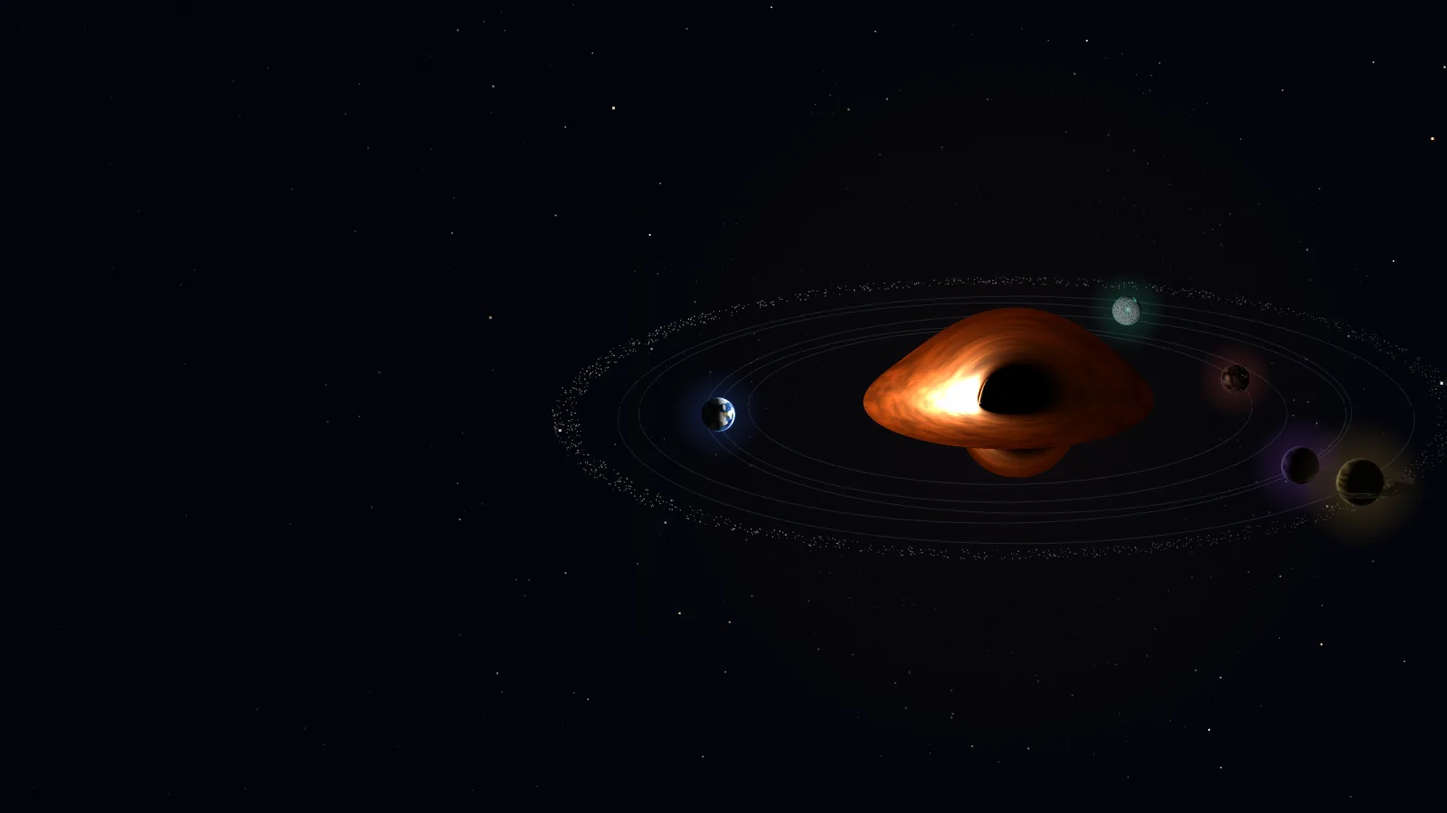
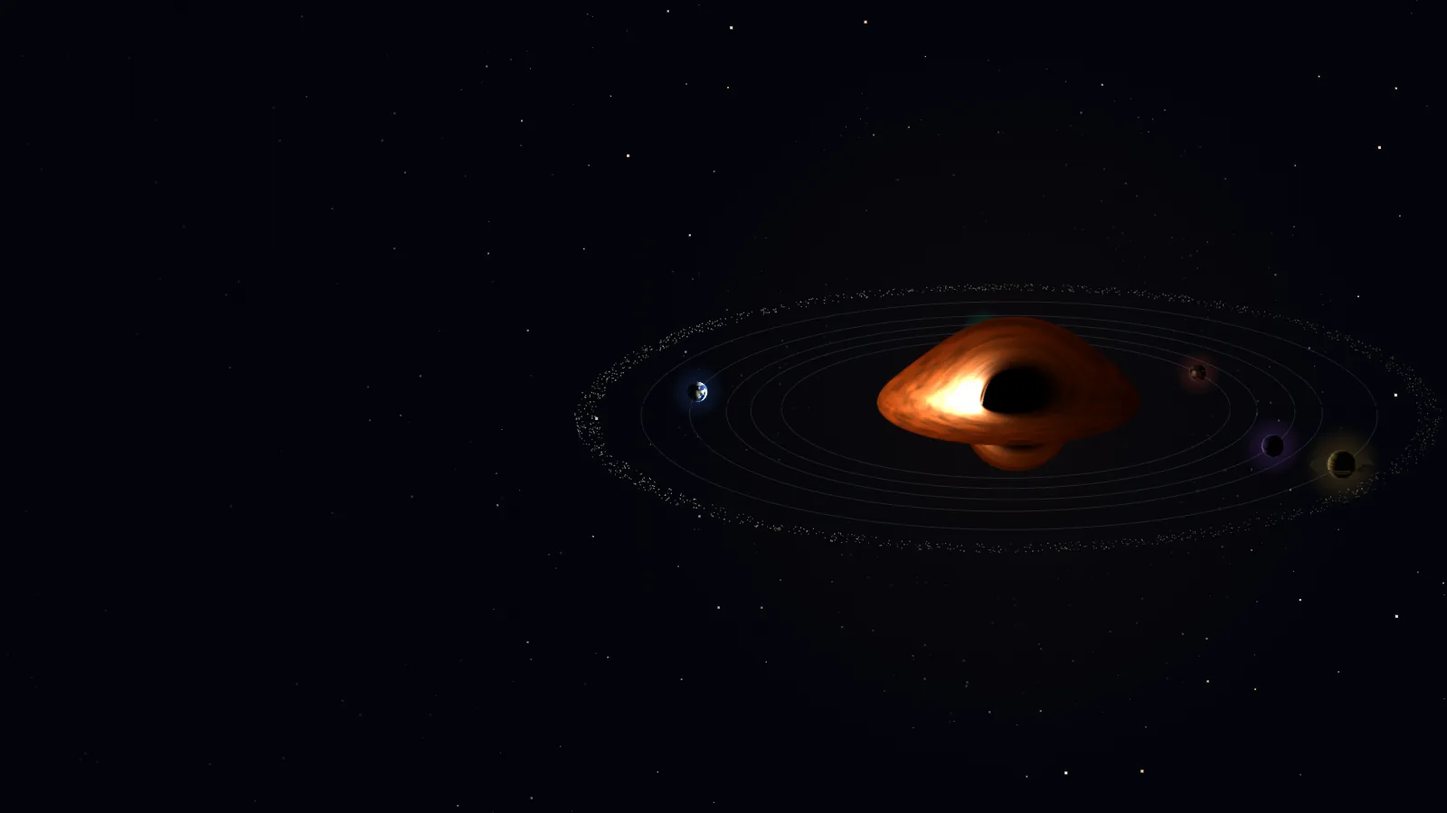
Space the orbits so planets never touch; compile the planet shader once
Neighbouring orbits were 0.5 to 1.1 M apart while the planets are 3 to
5 M across, so passing planets overlapped. The orbits are now nearly
circular (e <= 0.014), the planets a third smaller, and the ringed
giant outermost, with the belt at 50 to 53 M; three hours of screen
time give no contact between any pair. The sky's planets and the
landing view now share one planet program, so it compiles once; a
planet clicked before it is ready pulses its label until the flight
starts. Hero text waits at most 0.7 s for its fonts, which are fetched
first.

diff --git a/src/assets/js/sky.js b/src/assets/js/sky.js
@@ -29,7 +29,7 @@
     const la = p.site[0] * Math.PI / 180, lo = p.site[1] * Math.PI / 180;
     p.siteN = [Math.cos(la) * Math.cos(lo), Math.cos(la) * Math.sin(lo), Math.sin(la)];
   });
-  const BELT = (() => { let s = 7; const r = () => (s = (s * 16807) % 2147483647) / 2147483647; return [...Array(1500)].map(() => ({ r: 47.5 + r() * 3, ph: r() * 6.2832, z: (r() - .5) * .5, b: .35 + .65 * r() })); })();
+  const BELT = (() => { let s = 7; const r = () => (s = (s * 16807) % 2147483647) / 2147483647; return [...Array(1500)].map(() => ({ r: 50 + r() * 3, ph: r() * 6.2832, z: (r() - .5) * .5, b: .35 + .65 * r() })); })();
 
   // Planet position at time tau: a precessing ellipse. The periapsis advances at Omega - kappa
   // (general relativity), the radial motion follows the epicyclic frequency kappa.
@@ -78,7 +78,7 @@
     IR = mob ? null : { l: ir.left - sr.left - 24, r: ir.right - sr.left + 24, t: ir.top - sr.top - 20, b: ir.bottom - sr.top + 20 };
     // Desktop: fit the outermost planet's orbit (apoapsis APO) in the space beside the intro text,
     // so no planet ever passes under the headline. The belt may run behind the text.
-    const APO = Math.max(...PL.map(p => p.a * (1 + p.e)));
+    const APO = Math.max(...PL.map(p => p.a * (1 + p.e)), 51);   // the outermost orbit, or the belt's middle
     let cx = w * .5, cy = h * .5, K;
     if (mob) { K = Math.min((w - 16) / (2 * (APO + 3)), h / (2 * 17)); cy = h * .42; } // every planet stays on a phone screen; the hole sits high enough to show on the first screen
     else {
@@ -313,13 +313,17 @@ void main(){ivec2 p=ivec2(gl_FragCoord.xy);vec4 c=texelFetch(uC,p,0),g=texelFetc
   })();
 
   // ---------- Planets: rendered on the GPU into an atlas, then drawn in 2D ----------
-  const atlas = document.createElement('canvas');
-  // The planet shader is compiled in the background once the first frame is on screen; until it is
-  // ready the planets are drawn as shaded discs.
-  let PG = null, PGH = null, pgT = 0, pgFade = 1;
-  let pgReady = false;
-  requestAnimationFrame(() => setTimeout(() => { PGH = window.PlanetGL ? window.PlanetGL.begin(atlas, { preserveDrawingBuffer: true }) : null; if (!PGH) pgReady = true; }, 0));
-  function pollPG() { if (PGH && PGH.ready()) { PG = PGH.finish(); PGH = null; pgReady = true; pgT = performance.now(); pgFade = 0; } if (PG && pgFade < 1) pgFade = Math.min(1, (performance.now() - pgT) / 600); }
+  // The planets are rendered by the landing view's planet program (world.js) and copied into this
+  // 2D atlas, which keeps them while a project is open. Until the program is compiled they are drawn
+  // as shaded discs, and the detailed ones fade in over them.
+  const atlas = document.createElement('canvas'), ax = atlas.getContext('2d');
+  let PG = null, pgT = 0, pgFade = 1, pend = -1;
+  function pollPG() {
+    const G = window.WORLD && window.WORLD.planetGL();
+    if (G && !PG) { pgT = performance.now(); pgFade = 0; }
+    PG = G || (PG && window.WORLD.open_ >= 0 ? PG : null);
+    if (PG && pgFade < 1) pgFade = Math.min(1, (performance.now() - pgT) / 600);
+  }
   let tile = 128;
   function frameOf(p3) {
     const r = Math.hypot(...p3), ex = p3.map(v => -v / r), ez = NR;
@@ -329,14 +333,17 @@ void main(){ivec2 p=ivec2(gl_FragCoord.xy);vec4 c=texelFetch(uC,p,0),g=texelFetc
   }
   const ext = p => p.kind === 'gas' ? 2.45 : 1.18;
   function renderAtlas(st, t) {
-    if (!PG) return;
+    if (!PG || window.WORLD.open_ >= 0) return;   // a project is open: its view owns the canvas
     const need = Math.min(QUAL[q].tile, Math.max(...PL.map(p => Math.ceil(2 * ext(p) * p.R * L.K * dpr))));
-    if (atlas.width !== need * PL.length || atlas.height !== need) { atlas.width = need * PL.length; atlas.height = need; }
+    const gc = PG.gl.canvas;
+    if (gc.width !== need * PL.length || gc.height !== need) { gc.width = need * PL.length; gc.height = need; }
+    if (atlas.width !== gc.width || atlas.height !== gc.height) { atlas.width = gc.width; atlas.height = gc.height; }
     tile = need; PG.clear();
     PL.forEach((p, i) => {
       const f = st[i].frame;
       PG.draw({ vp: [i * tile, 0, tile, tile], ortho: 1, ext: ext(p), rot: f.rot, L: f.L, col: p.rgb.map(v => v / 255), kind: KIND[p.kind], site: p.siteN, time: t, glow: 0, seed: i * 3.7 + 1, gain: st[i].gain });
     });
+    ax.clearRect(0, 0, atlas.width, atlas.height); ax.drawImage(gc, 0, 0);
   }
   const KIND = { rock: 0, ocean: 1, gas: 2, storm: 3, ice: 4 };
   function drawPlanet(ctx, i, p, X, Y, M) {
@@ -493,7 +500,8 @@ void main(){ivec2 p=ivec2(gl_FragCoord.xy);vec4 c=texelFetch(uC,p,0),g=texelFetc
   requestAnimationFrame(loop);
   window.SKY = {
     get quality() { return q; },
-    get planetsReady() { return pgReady || performance.now() > 6000; },
+    // A planet clicked before the landing view is ready: its label pulses until the flight starts.
+    pending(i) { if (pend === i) return; pend = i; [...labs.children].forEach((b, k) => b.classList.toggle('busy', k === i)); },
     // Stop (or restart) the sky while a project is open. The planet being flown to is drawn by the
     // landing view instead, so the sky draws one last frame without it.
     setActive(v, i) { hideI = v ? -1 : (i == null ? -1 : i); if (L && L.w >= 2) draw(); active = v; },

diff --git a/src/assets/js/world.js b/src/assets/js/world.js
@@ -8,13 +8,15 @@
   const el = document.getElementById('world'), wc = document.getElementById('wc'), wp = document.getElementById('wp');
   const arts = [...wp.querySelectorAll('article.cs')];
   const bBack = document.getElementById('w-back'), bPrev = document.getElementById('w-prev'), bNext = document.getElementById('w-next');
-  // The planet shader is compiled in the background once the page is up (see the end of this file);
-  // pg() finishes it, waiting for it only if a landing starts before it is ready.
+  // One planet program serves both the landing view and the sky's planets (sky.js renders them on
+  // this canvas while no project is open), so the costly shader is compiled once. It is handed to the
+  // driver after the first frame and compiled in the background; pg() returns it once it is ready.
   let PG = null, PGH = null, pgDone = false;
   function pg() {
-    if (!pgDone) { if (!PGH && window.PlanetGL) PGH = window.PlanetGL.begin(wc); PG = PGH ? PGH.finish() : null; pgDone = true; }
+    if (!pgDone && PGH && PGH.ready()) { PG = PGH.finish(); pgDone = true; }
     return PG;
   }
+  requestAnimationFrame(() => setTimeout(() => { PGH = window.PlanetGL ? window.PlanetGL.begin(wc, { preserveDrawingBuffer: true }) : null; if (!PGH) pgDone = true; }, 0));
   const KIND = { rock: 0, ocean: 1, gas: 2, storm: 3, ice: 4 };
   const hex = h => [1, 3, 5].map(i => parseInt(h.slice(i, i + 2), 16) / 255);
   const esc = s => String(s).replace(/[&<>"]/g, c => ({ '&': '&amp;', '<': '&lt;', '>': '&gt;', '"': '&quot;' })[c]);
@@ -146,20 +148,18 @@
     if (cur === i && st) return;
     // A planet clicked while its shader is still compiling: keep the sky running and start the flight
     // as soon as the shader is ready, instead of freezing the page while it compiles.
-    if (!pgDone && window.PlanetGL) {
-      if (!PGH) PGH = window.PlanetGL.begin(wc);
-      if (PGH && !PGH.ready()) {
-        clearTimeout(waitT); document.documentElement.classList.add('wait');
-        waitT = setTimeout(() => open(i, null, opts), 80); return;
-      }
+    if (!pg() && !pgDone) {
+      clearTimeout(waitT); document.documentElement.classList.add('wait');
+      if (window.SKY) window.SKY.pending(i);
+      waitT = setTimeout(() => open(i, null, opts), 50); return;
     }
     document.documentElement.classList.remove('wait');
+    if (window.SKY) window.SKY.pending(-1);
     const P = window.SKY ? window.SKY.planet(i) : null;
     from = from || P;
     if (!from || !from.rot) { // no sky position (no WebGL or not drawn yet): open without the flight
       from = Object.assign({ x: innerWidth * .62, y: innerHeight * .5, R: innerHeight * .1 }, P || {});
     }
-    pg();
     if (cur < 0) opener = document.activeElement;
     const switching = cur >= 0;
     cur = i; size(); fill(i);
@@ -209,22 +209,8 @@
   });
   addEventListener('resize', () => { if (st) size(); });
   wp.addEventListener('scroll', () => el.classList.toggle('sc', wp.scrollTop > 40), { passive: true });
-  // Compile the planet shader in the background once the sky's planets are ready (the two would
-  // otherwise compete for the driver), then draw one frame so the first landing does not stall.
   const idle = window.requestIdleCallback || (f => setTimeout(f, 300));
-  function warm() {
-    if (st || pgDone) return;
-    if (!PGH) {
-      if (!window.PlanetGL) { pgDone = true; return; }
-      if (window.SKY && !window.SKY.planetsReady) { setTimeout(warm, 100); return; }
-      PGH = window.PlanetGL.begin(wc); if (!PGH) { pgDone = true; return; }
-    }
-    if (!PGH.ready()) { setTimeout(warm, 100); return; }
-    if (!pg()) return;
-    size(); PG.clear(); PG.draw({ vp: [0, 0, wc.width, wc.height], ortho: 0, cam: [0, 0, 3], camM: [1, 0, 0, 0, 1, 0, 0, 0, 1], tanF: TANF, rot: [1, 0, 0, 0, 1, 0, 0, 0, 1], L: [0, 0, 1], col: [1, 1, 1], kind: 0, site: [0, 0, 1], time: 0, glow: 0, seed: 1, bg: 1 });
-  }
-  requestAnimationFrame(() => setTimeout(warm, 0));
   // Decode the first screenshot of each project while the page is idle, so showing a project does not stall.
   idle(() => arts.forEach(a => { const im = a.querySelector('.vp img:not([hidden])'); if (im && im.decode) { im.loading = 'eager'; im.decode().catch(() => {}); } }));
-  window.WORLD = { open, close: () => close(false), get open_() { return cur; } };
+  window.WORLD = { open, close: () => close(false), get open_() { return cur; }, planetGL: () => (cur < 0 ? pg() : null) };
 })();

diff --git a/src/assets/css/site.css b/src/assets/css/site.css
@@ -69,12 +69,13 @@ a{color:inherit}
 img.still{opacity:0}img.still.on{opacity:1}
 .shade{position:absolute;inset:0;pointer-events:none;background:linear-gradient(90deg,#03040af2 0%,#03040ad0 25%,#03040a00 46%)}
 [dir=rtl] .shade{background:linear-gradient(270deg,#03040af2 0%,#03040ad0 25%,#03040a00 46%)}
-/* The headline and the header wait for their fonts (main.js adds .fonts, at most 2 s), then fade in
+/* The headline and the header wait for their fonts (main.js adds .fonts, at most 0.7 s), then fade in
    together, so the text never shows in a stand-in font or re-wraps; without script they show at 3 s. */
 .intro,.top>*{opacity:0;animation:show 0s 3s forwards}
 .fonts .intro,.fonts .top>*{opacity:1;animation:none;transition:opacity .45s ease-out}
 @keyframes show{to{opacity:1}}
 html.wait,html.wait *{cursor:progress}
+.lab.busy{animation:busy .7s ease-in-out infinite alternate}@keyframes busy{to{opacity:.45}}
 .intro{position:absolute;inset-inline-start:max(44px,env(safe-area-inset-left,0px));top:50%;transform:translateY(-46%);z-index:5;max-width:min(560px,42vw)}
 .intro h1{font:800 clamp(40px,4.9vw,78px)/.98 var(--fh);letter-spacing:-.05em;margin:18px 0 24px;text-wrap:balance}
 .intro h1.long{font-size:clamp(34px,3.9vw,62px)}

diff --git a/src/assets/js/main.js b/src/assets/js/main.js
@@ -2,11 +2,11 @@
 (function () {
   'use strict';
   const S = window.SITE, T = S.t;
-  // Show the headline and the name once their fonts are in (at most 2 s), so they never appear in a
+  // Show the headline and the name once their fonts are in (at most 0.7 s), so they never appear in a
   // stand-in font and re-wrap (site.css hides them until then).
   const done = () => document.documentElement.classList.add('fonts');
   if (document.fonts && document.fonts.load) {
-    Promise.race([Promise.all(['800 40px Unbounded', '400 16px "Space Grotesk"', '600 11px "JetBrains Mono"', '400 12px "JetBrains Mono"'].map(f => document.fonts.load(f))), new Promise(r => setTimeout(r, 2000))]).then(done, done);
+    Promise.race([Promise.all(['800 40px Unbounded', '400 16px "Space Grotesk"', '600 11px "JetBrains Mono"', '400 12px "JetBrains Mono"'].map(f => document.fonts.load(f))), new Promise(r => setTimeout(r, 700))]).then(done, done);
   } else done();
   // Project visuals run only while on screen.
   const cards = [...document.querySelectorAll('canvas[data-viz]')].map(c => ({ c, v: window.VIZ.attach(c, c.dataset.viz), on: false }));

diff --git a/src/content/hi.py b/src/content/hi.py
@@ -477,7 +477,7 @@ C = {
   "h": "इस आकाश के बारे में",
   "p": [
    "यह ब्लैक होल ऐसे रे ट्रेसर से बनाया गया है जो मेरे भौतिकी सिम्युलेटर Isaac के ट्रेसर से विकसित हुआ है। हर पिक्सेल एक प्रकाश-किरण को पीछे की ओर, ब्लैक होल (जो अपनी धुरी पर किसी ब्लैक होल की अधिकतम संभव गति के 90% पर घूमता है) के आसपास के मुड़े हुए स्पेसटाइम से होकर ट्रेस करता है, डिस्क से 18° ऊपर से देखा गया। डिस्क गर्म गैस है, ब्लैक बॉडी के रंगों में, हमारी ओर आने वाली तरफ़ ज़्यादा चमकीली और ब्लैक होल के पास लाल विस्थापित। गैस उसी रफ़्तार से घूमती है जिससे असल में घूमती: भीतरी किनारा एक सेकंड से कम में एक चक्कर लगाता है, बाहरी लगभग 9 सेकंड में। छाया के चारों ओर की पतली चमकीली रिंग वह प्रकाश है जो हम तक पहुँचने से पहले ब्लैक होल का चक्कर लगा आया।",
-   "ग्रह और क्षुद्रग्रह पट्टी डिस्क के तल में परिक्रमा करते हैं, सब एक ही घड़ी पर: सबसे भीतरी ग्रह लगभग 23 सेकंड में एक चक्कर लगाता है, सबसे बाहरी लगभग 46 में। उनकी दीर्घवृत्ताकार कक्षाएँ धीरे-धीरे घूमती हैं, जैसा सामान्य सापेक्षता बताती है, और हर ग्रह ब्लैक होल की ओर एक ही चेहरा रखता है।",
+   "ग्रह और क्षुद्रग्रह पट्टी डिस्क के तल में परिक्रमा करते हैं, सब एक ही घड़ी पर: सबसे भीतरी ग्रह लगभग 23 सेकंड में एक चक्कर लगाता है, सबसे बाहरी लगभग 48 में। उनकी दीर्घवृत्ताकार कक्षाएँ धीरे-धीरे घूमती हैं, जैसा सामान्य सापेक्षता बताती है, और हर ग्रह ब्लैक होल की ओर एक ही चेहरा रखता है।",
    "यहाँ एक सेकंड 40 M समय के बराबर है, जहाँ M समय की इकाइयों में ब्लैक होल का द्रव्यमान है। 10 करोड़ सूर्यों के ब्लैक होल के लिए यह असल गति का लगभग 20,000 गुना है। कैमरा धीरे-धीरे ब्लैक होल के चारों ओर घूमता है।",
    "दो चीज़ें पैमाने पर नहीं हैं। कक्षाएँ, पट्टी और ग्रह उनकी रोशनी के मुड़ने के बिना बनाए गए हैं, जो हर कक्षा के पिछले हिस्से को ब्लैक होल के ऊपर उठा देता, और ग्रह असल से हज़ारों गुना बड़े दिखाए गए हैं।"
   ]

diff --git a/tools/build.py b/tools/build.py
@@ -41,15 +41,15 @@ PAPER = "Systematic Review of Quantum Machine Learning for Healthcare"
 # site: latitude and longitude (degrees) of the project's site; longitude 0 faces the hole.
 PROJECTS = [
     {"id": "isaac", "name": "Isaac", "col": "#ff5a3c", "kind": "rock", "urls": ["isaac3d.com"],
-     "tags": ["Rust", "WebAssembly", "React", "Three.js"], "orbit": {"a": 28, "e": .05, "w0": .5, "m0": 0, "R": 1.6}, "site": [18, 35]},
+     "tags": ["Rust", "WebAssembly", "React", "Three.js"], "orbit": {"a": 27.5, "e": .012, "w0": .5, "m0": 0, "R": 1.06}, "site": [18, 35]},
     {"id": "amadeo", "name": "Amadeo", "col": "#3d7bff", "kind": "ocean", "urls": ["amadeosheets.com"],
-     "tags": ["TensorFlow.js", "React", "TypeScript", "VexFlow"], "orbit": {"a": 31.5, "e": .04, "w0": 2.6, "m0": 1, "R": 1.85}, "site": [12, 30]},
+     "tags": ["TensorFlow.js", "React", "TypeScript", "VexFlow"], "orbit": {"a": 38.7, "e": .01, "w0": 2.6, "m0": 1, "R": 1.22}, "site": [12, 30]},
     {"id": "brectus", "name": "Brectus", "col": "#b45cff", "kind": "storm", "urls": [],
-     "tags": ["Node.js", "Electron"], "orbit": {"a": 35.5, "e": .06, "w0": 4.3, "m0": 2, "R": 2.0}, "site": [-10, 40]},
+     "tags": ["Node.js", "Electron"], "orbit": {"a": 34.8, "e": .012, "w0": 4.3, "m0": 2, "R": 1.32}, "site": [-10, 40]},
     {"id": "websites", "name": "Websites", "col": "#2de0a5", "kind": "ice", "urls": ["liderplustelemedicina.com.br"],
-     "tags": ["Astro", "TypeScript", "Cloudflare"], "orbit": {"a": 39.5, "e": .035, "w0": 1.4, "m0": .5, "R": 1.7}, "site": [22, 25]},
+     "tags": ["Astro", "TypeScript", "Cloudflare"], "orbit": {"a": 31, "e": .014, "w0": 1.4, "m0": .5, "R": 1.12}, "site": [22, 25]},
     {"id": "allwinner", "name": "Allwinner", "col": "#ffc23d", "kind": "gas", "urls": [],
-     "tags": ["Python", "pandas", "FastAPI", "SQLite"], "orbit": {"a": 44, "e": .045, "w0": 3.6, "m0": 3, "R": 2.5}, "site": [8, 30]},
+     "tags": ["Python", "pandas", "FastAPI", "SQLite"], "orbit": {"a": 45, "e": .01, "w0": 3.6, "m0": 3, "R": 1.65}, "site": [8, 30]},
 ]
 TOOLS = [
     ["Python", "PyTorch", "scikit-learn", "TensorFlow", "pandas", "NumPy", "SQL"],
@@ -311,9 +311,9 @@ def render(lang, C, ver, all_c):
 <meta property="og:type" content="website"><meta property="og:site_name" content="Matheus Teixeira"><meta property="og:title" content="{e(title)}"><meta property="og:description" content="{e(C["meta"]["desc"])}"><meta property="og:url" content="{SITE_URL}{page_path(lang)}"><meta property="og:image" content="{SITE_URL}og.png"><meta property="og:image:width" content="1200"><meta property="og:image:height" content="630"><meta property="og:locale" content="{OG_LOCALE[lang]}">{og_alt}
 <meta name="twitter:card" content="summary_large_image">
 <link rel="icon" href="{b}favicon.svg" type="image/svg+xml"><link rel="icon" href="{b}favicon.png" sizes="64x64" type="image/png"><link rel="apple-touch-icon" href="{b}apple-touch-icon.png">
-<link rel="preload" href="{b}assets/fonts/unbounded-latin-wght-normal.woff2" as="font" type="font/woff2" crossorigin>
-<link rel="preload" href="{b}assets/fonts/space-grotesk-latin-400-normal.woff2" as="font" type="font/woff2" crossorigin>
-<link rel="preload" href="{b}assets/fonts/jetbrains-mono-latin-600-normal.woff2" as="font" type="font/woff2" crossorigin>
+<link rel="preload" href="{b}assets/fonts/unbounded-latin-wght-normal.woff2" as="font" type="font/woff2" crossorigin fetchpriority="high">
+<link rel="preload" href="{b}assets/fonts/space-grotesk-latin-400-normal.woff2" as="font" type="font/woff2" crossorigin fetchpriority="high">
+<link rel="preload" href="{b}assets/fonts/jetbrains-mono-latin-600-normal.woff2" as="font" type="font/woff2" crossorigin fetchpriority="high">
 <style>html{{background:#03040a;color:#e8f0ff}}</style>
 <noscript><style>.intro,.top>*{{opacity:1;animation:none}}</style></noscript>
 {gf}

diff --git a/src/content/ar.py b/src/content/ar.py
@@ -477,7 +477,7 @@ C = {
   "h": "عن هذه السماء",
   "p": [
    "يُرسم الثقب الأسود بمتتبّع أشعة مشتق من متتبّع Isaac، محاكي الفيزياء الخاص بي. يتتبّع كل بكسل شعاعًا ضوئيًا إلى الوراء عبر الزمكان المنحني حول الثقب (وهو يدور حول نفسه بنسبة 90% من أقصى سرعة ممكنة لثقب أسود)، يُرى من ارتفاع 18° فوق قرصه. القرص غاز ساخن ملوّن كجسم أسود، أشد سطوعًا في الجانب المقترب منا ومنزاح نحو الأحمر قرب الثقب. يدور الغاز بالسرعة التي كان سيدور بها فعلًا: تُكمل الحافة الداخلية دورة في أقل من ثانية، والخارجية في نحو 9 ثوانٍ. الحلقة الرفيعة الساطعة حول الظل ضوء دار حول الثقب قبل أن يصل إلينا.",
-   "تدور الكواكب وحزام الكويكبات في مستوى القرص، وكلها على ساعة واحدة: يكمل أقرب كوكب دورته في نحو 23 ثانية، وأبعدها في نحو 46. تدور قطوعها الناقصة ببطء كما تتنبأ النسبية العامة، ويُبقي كل كوكب وجهًا واحدًا نحو الثقب.",
+   "تدور الكواكب وحزام الكويكبات في مستوى القرص، وكلها على ساعة واحدة: يكمل أقرب كوكب دورته في نحو 23 ثانية، وأبعدها في نحو 48. تدور قطوعها الناقصة ببطء كما تتنبأ النسبية العامة، ويُبقي كل كوكب وجهًا واحدًا نحو الثقب.",
    "الثانية هنا تساوي 40 M من الزمن، حيث M كتلة الثقب بوحدات الزمن. لثقب كتلته 100 مليون شمس، هذا نحو 20,000 ضعف السرعة الحقيقية. تدور الكاميرا ببطء حول الثقب.",
    "شيئان ليسا بمقياس حقيقي. المدارات والحزام والكواكب مرسومة دون انحناء ضوئها، الذي كان سيرفع الجانب البعيد من كل مدار فوق الثقب، والكواكب مرسومة أكبر بآلاف المرات مما ستكون عليه."
   ]

diff --git a/src/content/fr.py b/src/content/fr.py
@@ -477,7 +477,7 @@ C = {
   "h": "À propos de ce ciel",
   "p": [
    "Le trou noir est dessiné avec un lancer de rayons dérivé de celui d’Isaac, mon simulateur de physique. Chaque pixel suit un rayon de lumière à rebours dans l’espace-temps courbe autour du trou (qui tourne sur lui-même à 90 % de la vitesse maximale possible pour un trou noir), vu 18° au-dessus de son disque. Le disque est un gaz chaud, coloré comme un corps noir, plus brillant du côté qui vient vers nous et décalé vers le rouge près du trou. Le gaz tourne à la vitesse qu’il aurait réellement : le bord intérieur fait un tour en moins d’une seconde, le bord extérieur en 9. L’anneau fin et brillant autour de l’ombre est de la lumière qui a fait le tour du trou avant de nous atteindre.",
-   "Les planètes et la ceinture d’astéroïdes orbitent dans le plan du disque, toutes sur la même horloge : la planète la plus proche fait un tour en environ 23 secondes, la plus éloignée en environ 46. Leurs ellipses tournent lentement, comme le prévoit la relativité générale, et chaque planète garde une face tournée vers le trou.",
+   "Les planètes et la ceinture d’astéroïdes orbitent dans le plan du disque, toutes sur la même horloge : la planète la plus proche fait un tour en environ 23 secondes, la plus éloignée en environ 48. Leurs ellipses tournent lentement, comme le prévoit la relativité générale, et chaque planète garde une face tournée vers le trou.",
    "Une seconde ici vaut 40 M de temps, où M est la masse du trou exprimée en temps. Pour un trou de 100 millions de soleils, cela fait environ 20 000 fois la vitesse réelle. La caméra tourne lentement autour du trou.",
    "Deux choses ne sont pas à l’échelle. Les orbites, la ceinture et les planètes sont dessinées sans la déviation de leur lumière, qui relèverait l’arrière de chaque orbite au-dessus du trou, et les planètes sont dessinées des milliers de fois plus grandes qu’elles ne le seraient."
   ]

diff --git a/src/content/de.py b/src/content/de.py
@@ -477,7 +477,7 @@ C = {
   "h": "Über diesen Himmel",
   "p": [
    "Das Schwarze Loch wird mit einem Raytracer gezeichnet, der aus dem von Isaac, meinem Physiksimulator, entstanden ist. Jedes Pixel folgt einem Lichtstrahl rückwärts durch die gekrümmte Raumzeit um das Loch (das sich mit 90 % der höchsten für ein Schwarzes Loch möglichen Rate dreht), gesehen 18° über seiner Scheibe. Die Scheibe ist heißes Gas, gefärbt wie ein schwarzer Körper, heller auf der Seite, die auf uns zukommt, und nahe am Loch rotverschoben. Das Gas kreist so schnell, wie es das wirklich täte: Der innere Rand braucht für eine Runde weniger als eine Sekunde, der äußere etwa 9. Der dünne helle Ring um den Schatten ist Licht, das das Loch umrundet hat, bevor es uns erreicht.",
-   "Die Planeten und der Asteroidengürtel umkreisen das Loch in der Ebene der Scheibe, alle nach derselben Uhr: Der innerste Planet braucht für eine Runde etwa 23 Sekunden, der äußerste etwa 46. Ihre Ellipsen drehen sich langsam, wie die allgemeine Relativitätstheorie vorhersagt, und jeder Planet wendet dem Loch stets dieselbe Seite zu.",
+   "Die Planeten und der Asteroidengürtel umkreisen das Loch in der Ebene der Scheibe, alle nach derselben Uhr: Der innerste Planet braucht für eine Runde etwa 23 Sekunden, der äußerste etwa 48. Ihre Ellipsen drehen sich langsam, wie die allgemeine Relativitätstheorie vorhersagt, und jeder Planet wendet dem Loch stets dieselbe Seite zu.",
    "Eine Sekunde hier sind 40 M Zeit, wobei M die Masse des Lochs in Zeiteinheiten ist. Für ein Loch von 100 Millionen Sonnen sind das etwa 20.000-fache Echtzeit. Die Kamera kreist langsam um das Loch.",
    "Zwei Dinge sind nicht maßstabsgetreu. Umlaufbahnen, Gürtel und Planeten sind ohne die Ablenkung ihres Lichts gezeichnet, die die Rückseite jeder Umlaufbahn über das Loch heben würde, und die Planeten sind tausendfach größer gezeichnet, als sie wären."
   ]

diff --git a/src/content/es.py b/src/content/es.py
@@ -477,7 +477,7 @@ C = {
   "h": "Sobre este cielo",
   "p": [
    "El agujero negro se dibuja con un trazador de rayos derivado del de Isaac, mi simulador de física. Cada píxel sigue un rayo de luz hacia atrás por el espacio-tiempo curvo alrededor del agujero (que gira al 90% de la velocidad máxima que puede tener un agujero negro), visto 18° por encima de su disco. El disco es gas caliente, coloreado como un cuerpo negro, más brillante en el lado que se acerca y desplazado al rojo cerca del agujero. El gas gira a la velocidad que tendría de verdad: el borde interior da una vuelta en menos de un segundo, el exterior en unos 9. El anillo fino y brillante alrededor de la sombra es luz que rodeó el agujero antes de llegar hasta nosotros.",
-   "Los planetas y el cinturón de asteroides orbitan en el plano del disco, todos con el mismo reloj: el planeta más interior da una vuelta en unos 23 segundos, el más exterior en unos 46. Sus elipses giran despacio, como predice la relatividad general, y cada planeta muestra siempre la misma cara al agujero.",
+   "Los planetas y el cinturón de asteroides orbitan en el plano del disco, todos con el mismo reloj: el planeta más interior da una vuelta en unos 23 segundos, el más exterior en unos 48. Sus elipses giran despacio, como predice la relatividad general, y cada planeta muestra siempre la misma cara al agujero.",
    "Un segundo aquí equivale a 40 M de tiempo, donde M es la masa del agujero en unidades de tiempo. Para un agujero de 100 millones de soles, son unas 20.000 veces la velocidad real. La cámara gira despacio alrededor del agujero.",
    "Dos cosas no están a escala. Las órbitas, el cinturón y los planetas se dibujan sin la curvatura de su luz, que levantaría la parte trasera de cada órbita sobre el agujero, y los planetas se dibujan miles de veces más grandes de lo que serían."
   ]

diff --git a/src/content/pt.py b/src/content/pt.py
@@ -477,7 +477,7 @@ C = {
   "h": "Sobre este céu",
   "p": [
    "O buraco negro é desenhado com um traçador de raios derivado do Isaac, meu simulador de física. Cada pixel segue um raio de luz de volta pelo espaço-tempo curvo em torno do buraco (que gira a 90% da velocidade máxima que um buraco negro pode ter), visto 18° acima do disco. O disco é gás quente, colorido como um corpo negro, mais brilhante do lado que vem em nossa direção e desviado para o vermelho perto do buraco. O gás gira na velocidade que teria de verdade: a borda interna dá uma volta em menos de um segundo, a externa em cerca de 9. O anel fino e brilhante em volta da sombra é luz que contornou o buraco antes de chegar até nós.",
-   "Os planetas e o cinturão de asteroides orbitam no plano do disco, todos no mesmo relógio: o planeta mais interno dá uma volta em cerca de 23 segundos, o mais externo em cerca de 46. As elipses giram devagar, como prevê a relatividade geral, e cada planeta mantém uma face voltada para o buraco.",
+   "Os planetas e o cinturão de asteroides orbitam no plano do disco, todos no mesmo relógio: o planeta mais interno dá uma volta em cerca de 23 segundos, o mais externo em cerca de 48. As elipses giram devagar, como prevê a relatividade geral, e cada planeta mantém uma face voltada para o buraco.",
    "Um segundo aqui são 40 M de tempo, em que M é a massa do buraco em unidades de tempo. Para um buraco de 100 milhões de sóis, isso é cerca de 20.000 vezes a velocidade real. A câmera gira devagar em torno do buraco.",
    "Duas coisas não estão em escala. As órbitas, o cinturão e os planetas são desenhados sem o desvio da sua luz, que ergueria o lado de trás de cada órbita acima do buraco, e os planetas aparecem milhares de vezes maiores do que seriam."
   ]

diff --git a/src/content/en.py b/src/content/en.py
@@ -527,7 +527,7 @@ C = {
   "h": "About this sky",
   "p": [
    "The black hole is drawn with a ray tracer grown from the one in Isaac, my physics simulator. Every pixel follows a light ray back through the curved spacetime around the hole (which spins at 90% of the fastest rate a black hole can have), seen from 18° above its disc. The disc is hot gas, coloured as a black body, brighter on the side moving towards us and redshifted close to the hole. The gas orbits as fast as it really would: the inner edge goes round in under a second, the outer edge in about 9. The thin bright ring around the shadow is light that circled the hole before reaching us.",
-   "The planets and the asteroid belt orbit in the plane of the disc, all on one clock: the innermost planet laps in about 23 seconds, the outermost in about 46. Their ellipses turn slowly, as general relativity predicts, and each planet keeps one face towards the hole.",
+   "The planets and the asteroid belt orbit in the plane of the disc, all on one clock: the innermost planet laps in about 23 seconds, the outermost in about 48. Their ellipses turn slowly, as general relativity predicts, and each planet keeps one face towards the hole.",
    "One second here is 40 M of time, where M is the hole’s mass in units of time. For a hole of 100 million suns, that is about 20,000 times real speed. The camera drifts slowly around the hole.",
    "Two things are not to scale. The orbits, the belt and the planets are drawn without the bending of their light, which would lift the far side of every orbit over the hole, and the planets are drawn thousands of times larger than they would be."
   ]
